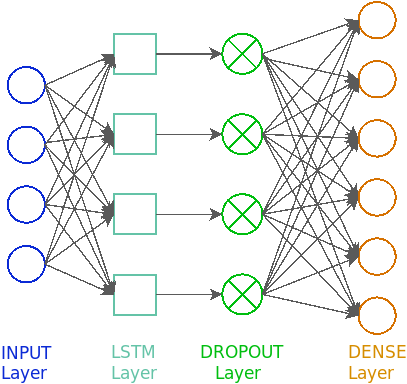
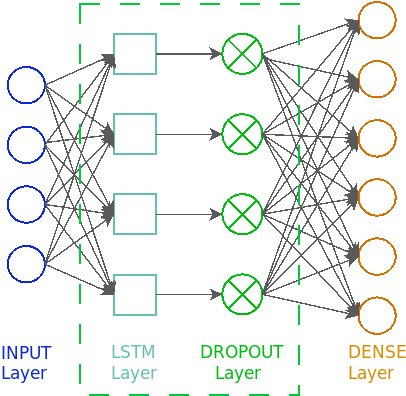
check

diff --git a/latex/Report_PeraliThiella.tex b/latex/Report_PeraliThiella.tex
@@ -99,28 +99,28 @@ Luca Perali, Michele Thiella
 \maketitle
 
 \begin{abstract}
-	In recent years, Machine Learning (ML) has been gaining unprecedented visibility and success in the history of artificial intelligence, thanks certainly to the wide range of problems in which it can be applied: Machine Vision, Keyword Spotting Analysis, Data Sequence Forcasting, etc. \\
+	In recent years, Machine Learning (ML) has been gaining unprecedented visibility and success in the history of artificial intelligence, thanks certainly to the wide range of problems in which it can be applied: Machine Vision, Keyword Spotting Analysis, Data Sequence Forecasting, etc. \\
 	In the training phase of the ML algorithms, the programmer have to find good hyperparameters capable of obtaining the best results in the test phase. Due to the exponential number of possible combination of hyperparameters, this process can be time consuming. As these hyperparameters strongly depends on the type of problem being faced and on the dataset used, it is not possible to share parameters values between problems or models. \\
-	In this project we wanted to deepen a metaheuristic method based on evolutionary genetics, named Coronavirus Optimization Algorithm (CVOA) \cite{martnezlvarez2020coronavirus}, which is a metaheuristics inspired by the virus spread within the population, using it for the automatic calculation of hyperparameters for the training phase of an ML algorithm. This approach would like to reduce the time needed to find good hyperparameters to train the model for a specific problem.
+	In this project it's presented an analysis of the metaheuristic method based on evolutionary genetics, named Coronavirus Optimization Algorithm (CVOA) \cite{martnezlvarez2020coronavirus}, which is a metaheuristics inspired by the virus spread within the population, using it for the automatic calculation of hyperparameters for the training phase of an ML algorithm. This approach would like to reduce the time needed to find good hyperparameters to train the model for a specific problem.
 	
 \end{abstract}
 
 \section{Introduction}
-	While developing a ML algorithm, as usual, it's required to define the structure of a model and the parameter to train that model in a dataset. Once defined the parameter to tune, and their domain, there is usually a huge number of configuration of the parameters to simply try all of them and see which is the best, therefore different metaheuristics try to explore the hyperparameter search space in a clever way. \\
+	While developing a ML algorithm, as usual, it's required to define the structure of a model and the hyperparameter for the training phase. Once defined the hyperparameter to tune, and their domain. Since the number of possible configuration is exponential in the number of hyperparameter, it's not feasible to evaluate all of them and see which is the best, therefore different metaheuristics try to explore the hyperparameter search space in a clever way. \\
 	In the first part of this report there is a short description of the LSTM model and the genetic algorithm to refresh the basic concept. Then there is a description of the CVOA metaheuristic algorithm which will be combined with the LSTM for testing purposes, knowing that every model with appropriate encoding could potentially replace the LSTM. In the end there are some consideration about the efficacy of the method and the conclusion. 
 	
 	
 	This algorithm, as described in the referenced paper, promise very strong advantages:
 	\begin{itemize}
 		\item the Covid-19 statistics of propagation are well known from the scientific community therefore there is no need to tune them;
-		\item the spread automatically stops after several iteration, with no need to be configured; 
+		\item the spread of infected automatically stops after several iteration, with no need to be configured; 
 		\item the coronavirus high spreading rate is useful for exploring promising regions more
 		thoroughly (intensification) while the use of parallel strains ensures that all regions
 		of the search space are evenly explored (diversification).
 	\end{itemize}
 
 \section{Basic Concepts} \label{basicConcepts}
-CVOA is an algorithm used to tune the parameter of a neural network (NN), therefore let's describe the NN model used for the project and the data this net want to fit.
+CVOA is an algorithm used to tune the parameter of a neural network (NN), therefore let's describe the NN model used for the project and the input data.
 It has been decided to train a LSTM model with a dataset of sequences representing the number of infected of a virus (in our case again the Covid19) over the time. Here is needed to specify that either the metaheuristic or the LSTM deal with Covid19, however it is involved in two independent way:
 \begin{itemize}
 	\item the \textbf{CVOA is inspired from the Covid19}, simulating the generation of new individual with the spread of new infected;
@@ -129,7 +129,7 @@ It has been decided to train a LSTM model with a dataset of sequences representi
 
 
 \subsection{Long Short Term Memory}
-The LSTM model is a neural network based on a computational unit (Figure \ref{fig:computational_unit}) that can memorize the context (represented by the function $ c(t) $). Each unit receive as input the concatenation of $ x(t)h(t-1)c(t-1) $ where $ h(t) = x(t-1) $ and $ x(t) $ is the input from dataset.
+The LSTM model is a neural network based on a computational unit (Figure \ref{fig:computational_unit}) that can memorize the context (represented by the function $ c(t) $). Each unit receive as input the concatenation of $ x(t)h(t-1)c(t-1) $ where $ h(t) = x(t-1) $ and $ x(t) $ is the input sample from dataset at time $ t $.
 \begin{figure}[!h]
 	\includegraphics[width=\columnwidth]{img/computational_unit}
 	\caption{The computational unit of a LSTM with input from dataset $ x(t) $, output $ h(t) $ and context function $ c(t) $. The input of the unit at time $ t $ is $ x(t)h(t-1)c(t-1) $ .}
@@ -139,7 +139,7 @@ The LSTM model is a neural network based on a computational unit (Figure \ref{fi
 
 \begin{figure}[!h]
 	\includegraphics[width=\columnwidth]{img/LSTM}
-	\caption{The general structure of the LSTM used in the experiment}
+	\caption{The general structure of the LSTM used in the experiment. The green box enhance the two layers which can eventually be repeated and concatenated $ N $ times.}
 	\label{fig:LSTM}
 \end{figure}
 A LSTM neural network is made by at least one layer of LSTM units. The dataset to train a LSTM network in general is made by a sequence of input values and a corresponding sequence of output.
@@ -182,7 +182,7 @@ The main components and functions performed by the GA are folded successively:
 
 \subsubsection{GA Constant Parameters}
 This subsection presents the main parameters used and which will be mentioned in the following sections.
-All probabilities involved in the GA are based on the real data of Coronavirus propagation model.
+All probabilities involved in the GA are based on the real data of Coronavirus propagation model, from the World Health Organization \cite{who}.
 \begin{itemize}
 \item $_PDIE$: An infected individual can die with a given probability.
 \item $_PSUPERSPREADER$: It is the probability that an individual spread the disease to a greater number of healthy individuals. After this condition is validated, two situations can be found: % TODO: cercare di fixare l'underscore _ che è osceno così e magari cambia il font dei nomi (senti fish)
@@ -309,9 +309,10 @@ In this report it was analyzed the CVOA metaheuristic which automatically estima
 Ad disadvantage, the number of infected in the first iterations is exponential and the execution time is still high.
 
 \subsection{Future Work}
+Interesting evaluation could be done comparing the CVOA-LSTM with other problem and other ML model like Convolution Neural Network. \\
 One of the possible improvement of the algorithm is to reduce the number of infected considering the metaphor of the production of a vaccine. This could be done by adding a percentage of  \textit{VACCINATED\_INDIVIDUAL} .\\
 Moreover, an open-source library would simplify the implementation of the CVOA algorithm. The NN model could be passed as parameter, with a method to determine the GA individual from the model and with the fitness function.\\
-Covid-19 has an high level of mutation such as there are spreading different type of virus. A parallel version of multi-covid CVOA could be implemented where the infected and the recovered are shared among all the viruses but all of them has different probability of infection and death. 
+Covid-19 has an high level of mutation such as there are spreading different type of virus. A parallel version of multi-Covid CVOA could be implemented where the infected and the recovered are shared among all the viruses but all of them has different probability of infection and death. 
 \clearpage
 \onecolumn
 \section{Pseudo-Python Code}
